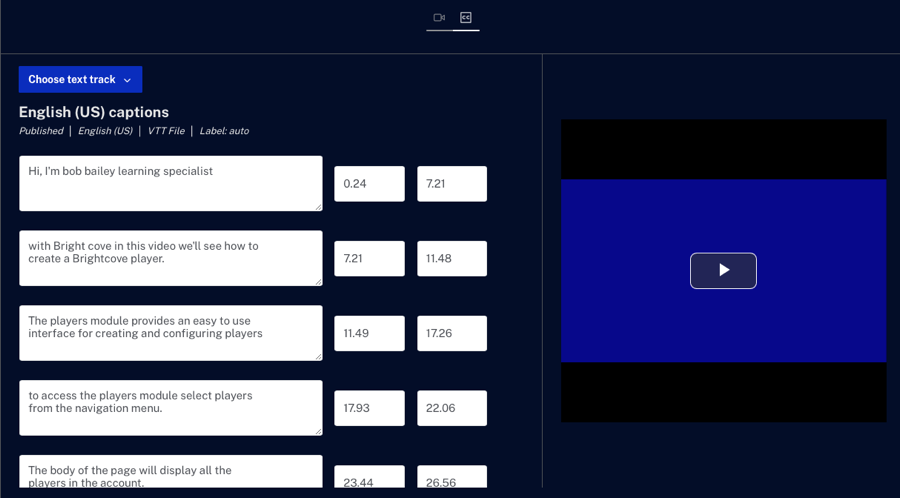
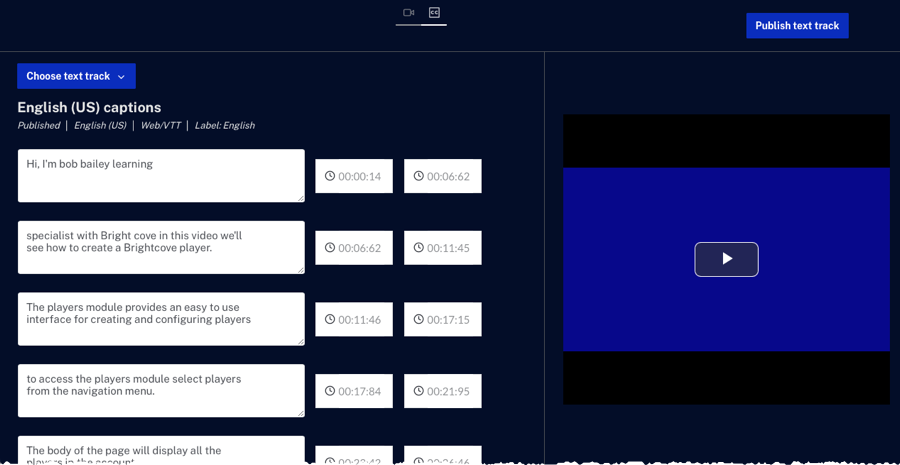
updates

diff --git a/_site/media/using-the-caption-editor.html b/_site/media/using-the-caption-editor.html
@@ -1229,18 +1229,14 @@ function doGTranslate(lang_pair) {if(lang_pair.value)lang_pair=lang_pair.value;i
       <li>Icons above the preview player can be used to display the preview player or the caption editor. Click the <strong>CC</strong> icon to display the caption editor.
         <figure class="bcls-figure"><img class="bcls-image--no-border" alt="" src="/assets/images/media/capedit-cc-icon.png" /></figure>
       </li>
-      <li>The caption editor will load the first text tracks into the editor. The editor will display the tracks and the associated start and end times in the video.
+      <li>The caption editor will load the first text track into the editor. If you need to edit a different text track, click <strong>Choose text track</strong> and select the text track to edit.
+        The editor will display the tracks and the associated start and end times in the video.
         <figure class="bcls-figure"><img class="bcls-image--no-border" alt="" src="/assets/images/media/capedit-captions-loaded.png" /></figure>
       </li>
-      <li></li>
-      <li></li>
+      <li>Edit the text track content as needed. The preview player can be used to preview changes to the text track.</li>
+      <li>Click <strong>Publish text track</strong> to save the changes. Video Cloud will upload the updated text tracks file. </li>
+      <aside class="bcls-aside bcls-aside--information">Note: There will be a slight delay before the updated text tracks appear in players.</aside>
     </ol>
-  </section>
-  <section class="bcls-section">
-    <h2 id="multiple">Working with multiple text tracks</h2>
-    <p>If a video has multiple text tracks associated with it, the caption editor will display a Choose text track button at the top of the editor. Click the button and select the track to edit.</p>
-            <figure class="bcls-figure"><img class="bcls-image--no-border" alt="" src="/assets/images/media/capedit-choose-track.png" /></figure>
-
   </section>
 </article>
 

diff --git a/media/using-the-caption-editor.html b/media/using-the-caption-editor.html
@@ -20,17 +20,13 @@ layout: staging
       <li>Icons above the preview player can be used to display the preview player or the caption editor. Click the <strong>CC</strong> icon to display the caption editor.
         <figure class="bcls-figure"><img class="bcls-image--no-border" alt="" src="/assets/images/media/capedit-cc-icon.png" /></figure>
       </li>
-      <li>The caption editor will load the first text tracks into the editor. The editor will display the tracks and the associated start and end times in the video.
+      <li>The caption editor will load the first text track into the editor. If you need to edit a different text track, click <strong>Choose text track</strong> and select the text track to edit.
+        The editor will display the tracks and the associated start and end times in the video.
         <figure class="bcls-figure"><img class="bcls-image--no-border" alt="" src="/assets/images/media/capedit-captions-loaded.png" /></figure>
       </li>
-      <li></li>
-      <li></li>
+      <li>Edit the text track content as needed. The preview player can be used to preview changes to the text track.</li>
+      <li>Click <strong>Publish text track</strong> to save the changes. Video Cloud will upload the updated text tracks file. </li>
+      <aside class="bcls-aside bcls-aside--information">Note: There will be a slight delay before the updated text tracks appear in players.</aside>
     </ol>
-  </section>
-  <section class="bcls-section">
-    <h2 id="multiple">Working with multiple text tracks</h2>
-    <p>If a video has multiple text tracks associated with it, the caption editor will display a Choose text track button at the top of the editor. Click the button and select the track to edit.</p>
-            <figure class="bcls-figure"><img class="bcls-image--no-border" alt="" src="/assets/images/media/capedit-choose-track.png" /></figure>
-
   </section>
 </article>
